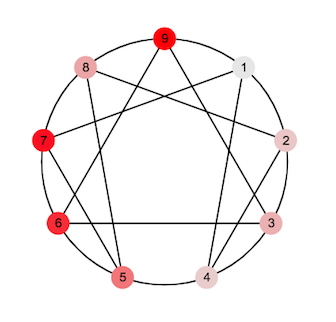
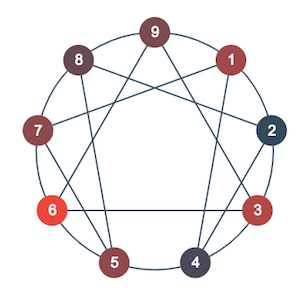
changed default values of options

Changed region(s): [[0.0584, 0.0594, 0.9351, 0.9208], [0.2338, 0.7723, 0.263, 0.802]]

diff --git a/build/js/main.js b/build/js/main.js
@@ -1,4 +1,4 @@
-'use strict';
+"use strict";
 
 var enneagram = function enneagram(settings) {
     var canvas = document.getElementById(settings.targetId);
@@ -6,13 +6,13 @@ var enneagram = function enneagram(settings) {
     var canvasW = getCanvasW();
     var opt = {
         radius: canvas.width / 3,
-        maxColor: [255, 10, 10],
-        minColor: [230, 230, 230],
+        maxColor: [236, 76, 60],
+        minColor: [52, 73, 94],
         lineWidth: 2,
-        lineColor: 'black',
-        pointSize: 15,
-        pointFontSize: 17,
-        fontColor: 'black'
+        lineColor: "rgb(62, 83, 104)",
+        pointSize: 20,
+        pointFontSize: 19,
+        fontColor: "white"
     };
     var center_x = canvas.width / 2;
     var center_y = canvas.height / 2;
@@ -28,7 +28,7 @@ var enneagram = function enneagram(settings) {
     function getCanvasW() {
         canvas.style.width = '100%';
         canvas.width = canvas.offsetWidth;
-        canvas.style.height = canvas.width + 'px';
+        canvas.style.height = canvas.width + "px";
         canvas.height = canvas.offsetHeight;
         return canvas.width;
     }
@@ -43,6 +43,7 @@ var enneagram = function enneagram(settings) {
     // draw
     var draw = function draw() {
         var drawCircle = function drawCircle() {
+            ctx.strokeStyle = opt.lineColor;
             ctx.lineWidth = opt.lineWidth;
             ctx.beginPath();
             ctx.arc(center_x, center_y, opt.radius, 0, 2 * Math.PI);
@@ -58,7 +59,7 @@ var enneagram = function enneagram(settings) {
             ctx.arc(x, y, opt.pointSize, 0, 2 * Math.PI);
             ctx.fill();
             ctx.fillStyle = opt.fontColor;
-            ctx.font = opt.pointFontSize + 'px Arial';
+            ctx.font = opt.pointFontSize + "px Arial";
             ctx.fillText(label, x - opt.pointFontSize / 4, y + opt.pointFontSize / 3);
         };
 
@@ -85,7 +86,7 @@ var enneagram = function enneagram(settings) {
                 var position = bottom + perc / 100 * distance;
                 rgbVals.push(position);
             }
-            var result = 'rgb(' + rgbVals[0] + ',' + rgbVals[1] + ',' + rgbVals[2] + ')';
+            var result = "rgb(" + rgbVals[0] + "," + rgbVals[1] + "," + rgbVals[2] + ")";
             return result;
         };
 

diff --git a/src/js/main.js b/src/js/main.js
@@ -4,13 +4,13 @@ const enneagram = (settings) => {
     let canvasW = getCanvasW()
     let opt = {
         radius: canvas.width / 3,
-        maxColor: [255, 10, 10],
-        minColor: [230, 230, 230],
+        maxColor: [236, 76, 60],
+        minColor: [52, 73, 94],
         lineWidth: 2,
-        lineColor: 'black',
-        pointSize: 15,
-        pointFontSize: 17,
-        fontColor: 'black'
+        lineColor: "rgb(62, 83, 104)",
+        pointSize: 20,
+        pointFontSize: 19,
+        fontColor: "white"
     }
     let center_x = canvas.width / 2;
     let center_y = canvas.height / 2;
@@ -41,6 +41,7 @@ const enneagram = (settings) => {
     // draw
     const draw = () => {
         const drawCircle = () => {
+            ctx.strokeStyle = opt.lineColor;
             ctx.lineWidth = opt.lineWidth;
             ctx.beginPath();
             ctx.arc(center_x, center_y, opt.radius, 0, 2 * Math.PI);

diff --git a/index.html b/index.html
@@ -12,7 +12,7 @@
 	<script type="text/javascript">
 		enneagram({
 			targetId: 'myEnneagram',
-			data: [0,14,24,12,50,80,89,29,100],
+			data: [60,0,70,12,50,100,49,29,40],
 			options: {
 			}
 		});
